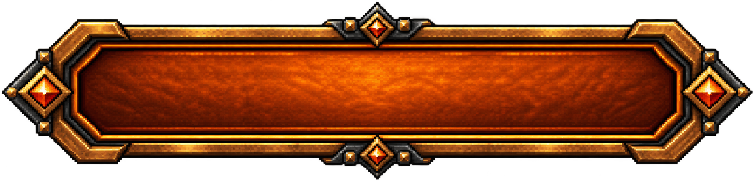
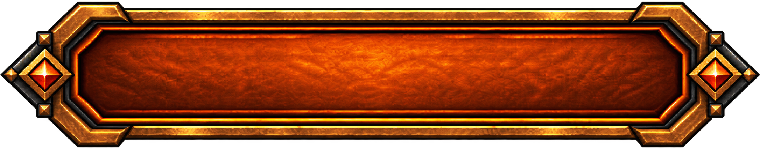
fix(PS-154,PS-155): assottiglia la cornice roster e correggi altezza/centratura del CTA arancione
PS-154: riduce ulteriormente il margine nine-slice della cornice roster
(32/28) e lo spessore visibile del bordo dorato tramite il padding
dell'icona, su richiesta del proprietario dopo revisione degli screenshot
reali; card lasciata IN CORSO come richiesto.

PS-155: il proprietario ha rigenerato il master HD del CTA arancione
(i due diamanti laterali comprimevano otticamente l'altezza della placca,
rendendo "RIPRENDI" visibilmente piu' alto dei pulsanti blu adiacenti);
riprocessato il derivato runtime e riallineate regione/margini in tutte le
5 scene che lo usano, con un content_margin dedicato dove il testo tutto
maiuscolo risultava non centrato (pausa, fine partita).

diff --git a/docs/cards/4_to_test/PS-155-correggi-altezza-e-centratura-testo-cta-arancione.md b/docs/cards/4_to_test/PS-155-correggi-altezza-e-centratura-testo-cta-arancione.md
@@ -1,0 +1,157 @@
+---
+id: PS-155
+titolo: Correggi altezza e centratura del testo sul CTA arancione
+tipo: fix
+area: ui
+stato: IN VERIFICA
+priorita: alta
+dipende_da: []
+origine:
+creato: 2026-09-11
+aggiornato: 2026-09-11
+---
+
+# PS-155 — Correggi altezza e centratura del testo sul CTA arancione
+
+## Contesto
+
+Nel menu di pausa, il pulsante "RIPRENDI" (stile CTA primario arancione,
+`character_select_cta_base.png`) risultava visibilmente più alto dei
+pulsanti blu affiancati ("CAMBIA PERSONAGGIO", "IMPOSTAZIONI", "ESCI",
+stile CTA secondario) a parità di `custom_minimum_size` — segnalato dal
+proprietario su uno screenshot reale. Misura pixel sullo screenshot: la
+decorazione a diamante ai lati del CTA arancione occupava ~30px in verticale
+contro i ~20px del CTA blu, coerente con `texture_margin_top` (34/24 a
+seconda della scena) ed `expand_margin` più generosi sull'asset arancione, a
+loro volta derivati da un master HD (`hd/character_select_cta_source.png`)
+con un'altezza del contenuto visibile diversa da quella dell'asset blu
+gemello.
+
+Il proprietario ha rigenerato personalmente il master HD arancione (i due
+grandi ornamenti a diamante comprimevano otticamente l'altezza percepita
+della placca) e ha chiesto di ricablare tutte le scene che usano il
+derivato. Riprocessando il derivato con le stesse proporzioni, il testo
+tutto-maiuscolo (nessun discendente: "RIPRENDI", "GIOCA", "GIOCA CON
+`<Nome>`", ecc.) è comparso visibilmente sopra il centro verticale della
+placca più bassa.
+
+## Comportamento atteso
+
+Il CTA arancione (RIPRENDI, GIOCA, GIOCA CON `<Nome>`, CONFERMA, CONTINUA)
+ha un'altezza visiva coerente con gli altri pulsanti dello stesso gruppo
+(pausa: confrontabile col CTA blu adiacente) e il testo appare centrato
+verticalmente sulla placca in ogni scena che lo usa.
+
+## Criteri di accettazione
+
+- [x] Il derivato runtime `character_select_cta_base.png` è rigenerato dal
+      nuovo master HD fornito dal proprietario, con lo stesso comando
+      deterministico (`tools/process-character-select-cta.ps1`, soglia
+      alpha 8, padding 4, scala 35%).
+- [x] La regione `AtlasTexture` e i `texture_margin_top`/`texture_margin_bottom`
+      del CTA arancione sono aggiornati, in proporzione, in tutte le scene
+      che lo referenziano: `pause_overlay.tscn`, `welcome_screen.tscn`,
+      `character_select_overlay.tscn`, `tutorial_screen.tscn`,
+      `end_screen.tscn`.
+- [x] Nel menu di pausa, "RIPRENDI" e i pulsanti blu adiacenti hanno
+      un'altezza visiva paragonabile — verificato su screenshot reale
+      rigenerato dopo il fix.
+- [x] Il testo del CTA arancione è centrato verticalmente sulla placca in
+      ogni stato (`normal`/`hover`/`pressed`/`focus`) del menu di pausa —
+      corretto con un `content_margin_top`/`content_margin_bottom`
+      espliciti (`26`/`14`) sulle tre `StyleBoxTexture` del CTA primario in
+      `pause_overlay.tscn`.
+- [x] Verificato il testo su tutte le altre 4 scene via screenshot reali:
+      welcome (`GIOCA`, bottone alto 74px) e selettore/tutorial (`GIOCA CON
+      <Nome>`, `AVANTI`, bottoni piu' alti o margine 28) erano già centrati
+      senza bisogno di correzioni; `end_screen.tscn` (`RIPROVA`, stesso
+      margine 20 e altezza 64 di pausa) aveva lo stesso problema di pausa
+      ed è stato corretto con lo stesso `content_margin_top`/`bottom`
+      (`26`/`14`).
+- [x] `ASSET-MANIFEST.md` di `assets/art/ui/character_select/` aggiornato
+      con origine, dimensioni e SHA-256 del nuovo master e del derivato.
+
+## Ambito
+
+- File toccati: `scenes/ui/pause_overlay.tscn`, `scenes/ui/welcome_screen.tscn`,
+  `scenes/ui/character_select_overlay.tscn`, `scenes/ui/tutorial_screen.tscn`,
+  `scenes/ui/end_screen.tscn` (solo region/texture_margin/content_margin del
+  CTA arancione condiviso, nessun altro stile toccato).
+- Asset toccati: `assets/art/ui/character_select/hd/character_select_cta_source.png`
+  (sostituito dal proprietario, vecchia versione conservata come
+  `character_select_cta_source_OLD.png`), `character_select_cta_base.png`
+  (rigenerato).
+- Non toccare: lo stile CTA secondario/blu (`secondary_button_cta_base.png`),
+  invariato e usato come riferimento di altezza corretta; logica di
+  `PauseOverlay`/`WelcomeScreen`/`CharacterSelectOverlay` (solo stylebox).
+
+## Verifica
+
+- Nessun nuovo smoke GUT: modifica puramente di stylebox/asset, non di
+  logica. La resa (altezza, centratura testo) è un controllo percettivo su
+  screenshot reali, non automatizzabile in modo affidabile.
+- Screenshot rigenerati con `tools/_capture_ui_screenshots.gd` dopo un
+  refresh forzato della cache di import di Godot (vedi Decisioni: la prima
+  rigenerazione mostrava ancora il derivato vecchio, cache di import non
+  invalidata dalla sola sovrascrittura del file).
+- Relevant: 34/34 regressioni, 35/35 step, nessun `SCRIPT ERROR`/`FATAL
+  EXCEPTION`.
+- Full: 139/139 regressioni, toolchain PASS, 140/140 step, nessun
+  `SCRIPT ERROR`/`FATAL EXCEPTION`.
+
+## Gate manuali
+
+- [ ] Runtime Windows
+- [ ] Validazione statica APK
+- [ ] Runtime fisico Pixel 9
+- [x] Controllo percettivo richiesto: sì — il proprietario ha confermato
+      via screenshot che il fix su pausa è corretto dopo il refresh della
+      cache ("ok, ora si vede bene"); le altre 4 scene sono state
+      autoverificate su screenshot reali in questa sessione (vedi criteri
+      sopra), non ancora riviste esplicitamente dal proprietario.
+
+## Decisioni
+
+- **2026-09-11 — Causa readicata al master HD, non alla scena.** Misura
+  pixel-per-pixel: la decorazione a diamante del CTA arancione occupava
+  ~30px contro i ~20px del blu allo stesso `custom_minimum_size`. Il
+  proprietario ha scelto di rigenerare lui stesso il master invece di
+  correggere solo i margini nine-slice (che avrebbero comunque tagliato,
+  non scalato, l'ornamento — stesso principio già visto in PS-139/PS-152/PS-154).
+- **2026-09-11 — Regione e margini aggiornati in proporzione in tutte le 5
+  scene che riusano il derivato**, non solo in `pause_overlay.tscn`: stesso
+  file, quindi stessa nuova geometria ovunque.
+- **2026-09-11 — Testo non centrato dopo il primo fix, segnalato dal
+  proprietario.** Il testo tutto-maiuscolo (nessun discendente) restava
+  visibilmente sopra il centro della placca più bassa. Corretto con un
+  `content_margin_top`/`content_margin_bottom` espliciti e asimmetrici
+  (`26`/`14`, non più il default implicito pari al `texture_margin`) sulle
+  tre `StyleBoxTexture` del CTA primario in `pause_overlay.tscn` — l'unica
+  scena verificata puntualmente finora (vedi criterio aperto sull'estensione
+  alle altre 4 scene).
+- **2026-09-11 — Il fix non compariva nei primi screenshot rigenerati,
+  segnalato dal proprietario ("c'è ancora il pulsante vecchio").**
+  Diagnosticato come cache di import di Godot non invalidata dalla sola
+  sovrascrittura del PNG sorgente sul disco. Risolto forzando un reimport
+  (`godot_console --headless --editor --path . --quit`, dopo aver rimosso
+  il `.import` stale del derivato) prima di rigenerare gli screenshot.
+  Nota operativa per il futuro: quando un asset raster viene sovrascritto
+  fuori dall'editor Godot, verificare lo screenshot con un reimport forzato
+  prima di dichiarare un fix visivo completo.
+- **2026-09-11 — Estesa la correzione della centratura a `end_screen.tscn`.**
+  Stessa combinazione margine `20`/altezza bottone `64` di `pause_overlay.tscn`
+  (`RIPROVA`): stesso difetto, stessa correzione (`content_margin_top`/`bottom`
+  `26`/`14`). Le altre 3 scene (welcome, selettore, tutorial) usano bottoni
+  più alti (74/58px) o un margine maggiore (28) e non mostravano il problema
+  su screenshot reale: nessuna modifica necessaria lì.
+
+## Documenti sincronizzati
+
+- [x] `assets/art/ui/character_select/ASSET-MANIFEST.md`: nuova sezione con
+      origine, dimensioni e SHA-256 del master e del derivato aggiornati.
+
+## Note
+
+Nessuna consultazione del game-art-designer: il proprietario ha fornito
+direttamente il nuovo master HD, nessuna nuova arte da generare lato
+sessione — solo riprocessamento deterministico e ricablaggio scene.

diff --git a/assets/art/ui/character_select/ASSET-MANIFEST.md b/assets/art/ui/character_select/ASSET-MANIFEST.md
@@ -82,3 +82,31 @@ Constraints: no text, no letters, no numbers, no logo, no character, no icon oth
[3 lines of base64/hex data omitted]
+
+## Base CTA arancione — proporzioni corrette (PS-155)
+
+L'11 settembre 2026 il proprietario ha rigenerato personalmente il master HD
+della placca arancione (`character_select_cta_source.png`, sostituito
+in-place; la versione precedente resta come `character_select_cta_source_OLD.png`,
+fuori da import/export) perche' i due grandi ornamenti a diamante ai lati
+comprimevano otticamente l'altezza percepita della placca, rendendo il
+pulsante "RIPRENDI" (arancione) visibilmente piu' alto del pulsante blu
+affiancato nel menu di pausa a parita' di `custom_minimum_size`. Origine:
+proprietario; licenza: Licenza del progetto.
+
+| Percorso | Dimensioni | Trasformazioni | SHA-256 |
+|---|---:|---|---|
[2 lines of base64/hex data omitted]
+
+Aggiornati di conseguenza, nelle 5 scene che riusano questo derivato
+(`pause_overlay.tscn`, `welcome_screen.tscn`, `character_select_overlay.tscn`,
+`tutorial_screen.tscn`, `end_screen.tscn`): la regione `AtlasTexture` da
+`Rect2(0,0,754,181)` a `Rect2(0,0,760,149)`, e `texture_margin_top/bottom`
+scalato in proporzione (era `34`→`28` dove il CTA e' quello principale delle
+schermate welcome/selettore/tutorial, `24`→`20` dove e' quello piu' compatto
+di pausa/fine partita). In `pause_overlay.tscn`, dove il problema era piu'
+visibile, aggiunto anche un `content_margin_top`/`content_margin_bottom`
+esplicito (`26`/`14`, non piu' il default implicito allineato al
+`texture_margin`) per ricentrare il testo tutto-maiuscolo (senza discendenti)
+rispetto alla placca piu' bassa.

diff --git a/docs/cards/3_in_sprint/PS-154-correggi-cornice-roster-e-desatura-non-selezionati.md b/docs/cards/3_in_sprint/PS-154-correggi-cornice-roster-e-desatura-non-selezionati.md
@@ -3,7 +3,7 @@ id: PS-154
 titolo: Correggi la cornice del roster nel selettore personaggi e desatura i non selezionati
 tipo: fix
 area: ui
-stato: IN VERIFICA
+stato: IN CORSO
 priorita: media
 dipende_da: []
 origine:
@@ -183,6 +183,37 @@ Non toccare:
   (6→20px) e i padding icona `ROSTER_SELECTED_ICON_PADDING`/
   `ROSTER_PREVIEW_ICON_PADDING` (16/22→48/54px) cosi' il ritratto rende
   visibile l'anello della cornice invece di sovrapporlo.
+- **2026-09-11 — Riaperta dopo revisione screenshot: gli angoli a margine
+  pieno (56/52) risultavano sovradimensionati rispetto al piccolo slot
+  roster.** Il proprietario ha scelto esplicitamente un ritaglio nine-slice
+  più piccolo dello stesso motivo (non un derivato dedicato): `texture_margin`
+  di `_make_roster_card_style()` ridotto a `32`/`28`. `content_margin` e
+  `ROSTER_SELECTED_ICON_PADDING`/`ROSTER_PREVIEW_ICON_PADDING` scalati di
+  conseguenza (20→4, 48/54→28/32) per tenere il ritratto contenuto nel
+  ritaglio più piccolo.
+- **2026-09-11 — Ulteriore richiesta: assottigliare lo spessore visibile
+  della cornice a ~1/3, mantenendo invariate le dimensioni x/y dell'angolo.**
+  Il `texture_margin` (32/28, la dimensione strutturale del riquadro
+  d'angolo) non è la leva giusta per questo: è il padding dell'icona
+  (`ROSTER_SELECTED_ICON_PADDING`/`ROSTER_PREVIEW_ICON_PADDING`, che
+  controlla quanto il ritratto si estende verso il bordo) a determinare
+  quanto spessore di cornice resta visibile — un padding minore fa crescere
+  il ritratto, coprendo più cornice. Ridotti a `9`/`11` (da `28`/`32`) e
+  `content_margin` a `4` (da `20`) perché non diventi lui il vincolo
+  dominante. Verificato via screenshot reali (confronto prima/dopo
+  ravvicinato sulla card selezionata): spessore visibile ridotto, angoli
+  laterali invariati. **Il proprietario ha chiesto di lasciare la card
+  `IN CORSO` per ora e di non rieseguire la verifica automatica in questa
+  sessione**: Focused/Relevant/Full precedenti (righe sopra) restano relativi
+  allo stato *prima* di queste due ultime modifiche, non ancora
+  ri-verificato.
+- **2026-09-11 — Nota, senza chiudere la card:** il profilo `Full` rieseguito
+  per [PS-155](../4_to_test/PS-155-correggi-altezza-e-centratura-testo-cta-arancione.md)
+  (139/139 regressioni, nessun `SCRIPT ERROR`/`FATAL EXCEPTION`) copre anche
+  `scripts/ui/character_select_overlay.gd` nel suo stato attuale (margine
+  32/28, spessore cornice ridotto) e non ha rilevato regressioni. Lo stato
+  resta `IN CORSO` come richiesto dal proprietario: e' solo evidenza di
+  non-regressione raccolta di passaggio, non una chiusura della card.
 
 ## Documenti sincronizzati
 

diff --git a/docs/cards/README.md b/docs/cards/README.md
@@ -255,4 +255,5 @@ sviluppo: funzionalità, fix, arte, documentazione, tooling e release.
 | [PS-151](./4_to_test/PS-151-rimuovi-evil-portrait-placeholder-e-eldiran.md) | Rimuovi il fallback evil_portrait_placeholder e la dipendenza da eldiran_rpg_characters | chore | gameplay | IN VERIFICA | media | — |
 | [PS-152](./5_completed/PS-152-rivetto-angolo-carte-upgrade.md) | Genera il rivetto d'angolo isolato per le carte upgrade | art | arte | COMPLETATO | media | — |
 | [PS-153](./4_to_test/PS-153-rimuovi-badge-modalita-barb-e-ingrandisci-riga-redenzione.md) | Rimuovi il badge di modalità dalla ricompensa di Barb e ingrandisci la riga di redenzione | ux | ui | IN VERIFICA | bassa | — |
-| [PS-154](./4_to_test/PS-154-correggi-cornice-roster-e-desatura-non-selezionati.md) | Correggi la cornice del roster nel selettore personaggi e desatura i non selezionati | fix | ui | IN VERIFICA | media | — |
+| [PS-154](./3_in_sprint/PS-154-correggi-cornice-roster-e-desatura-non-selezionati.md) | Correggi la cornice del roster nel selettore personaggi e desatura i non selezionati | fix | ui | IN CORSO | media | — |
+| [PS-155](./4_to_test/PS-155-correggi-altezza-e-centratura-testo-cta-arancione.md) | Correggi altezza e centratura del testo sul CTA arancione | fix | ui | IN VERIFICA | alta | — |
